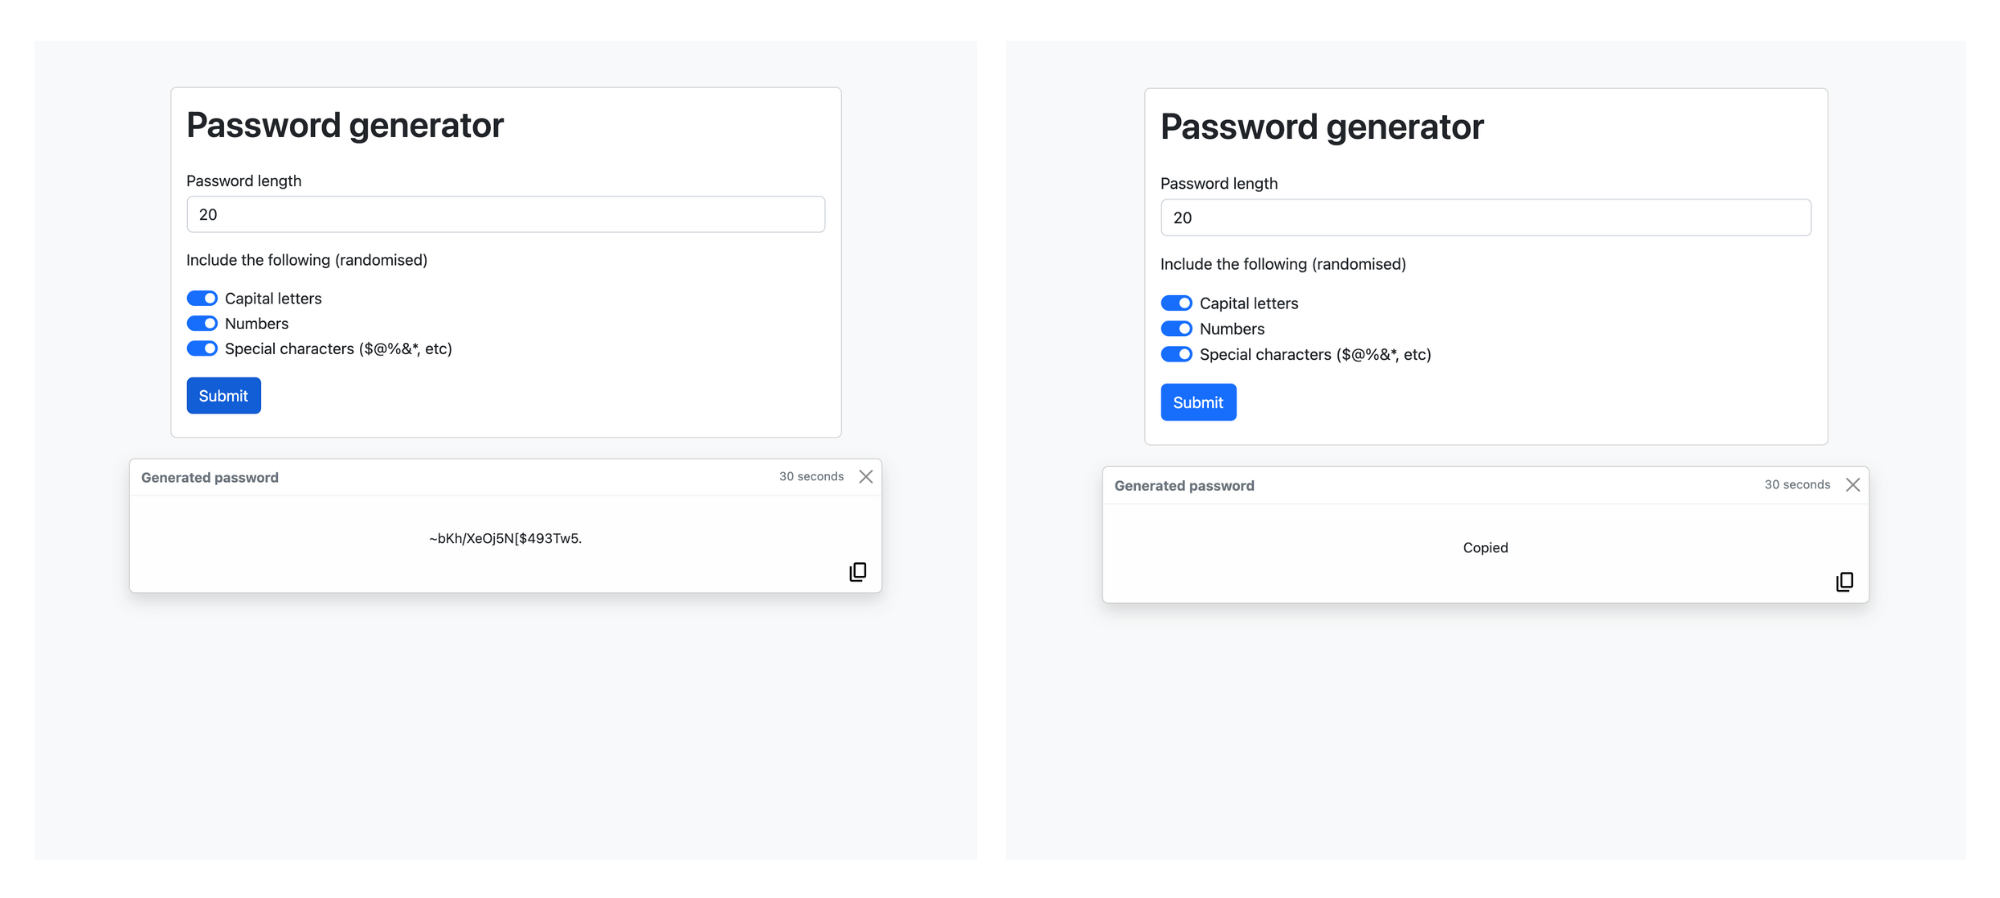
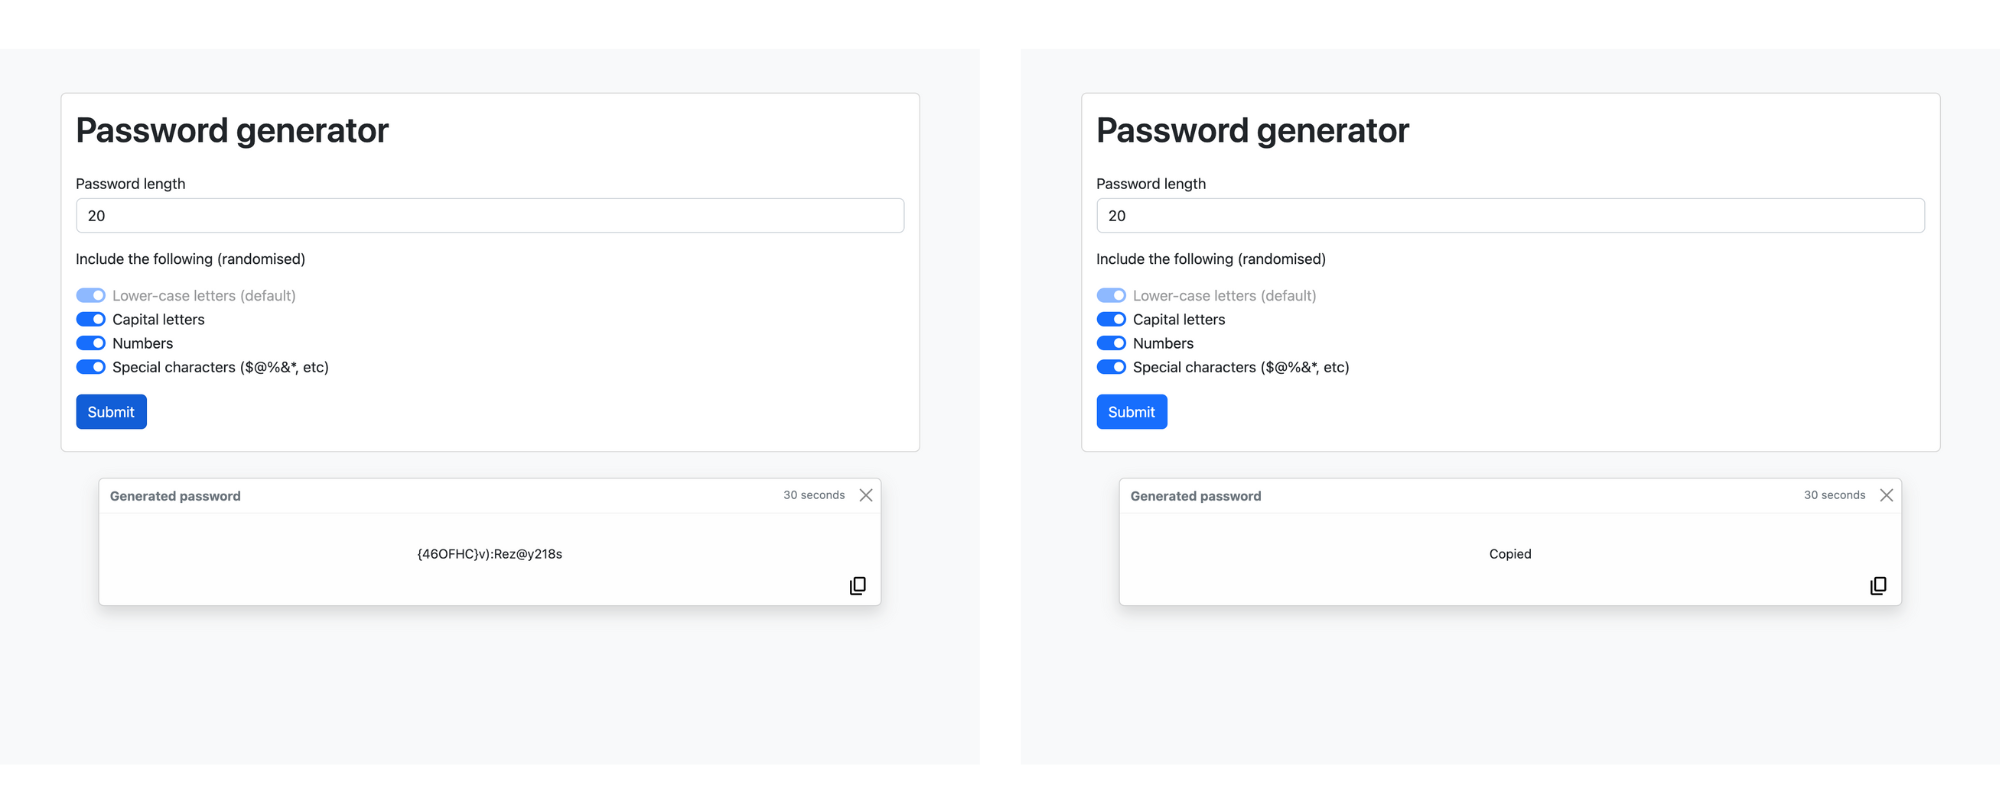
Readme file updated

diff --git a/README.md b/README.md
@@ -4,7 +4,7 @@ Last updated on: 17th Jan 2023. Last updated by: Shohidul Shah Hoque
 __________
 
 ## Description
-This application is deployed on the following link
+This application is deployed on the following link:
 - https://shah-hoque.github.io/password-generator/
 
 This application creates a password based on the following user input options:
@@ -12,6 +12,7 @@ This application creates a password based on the following user input options:
 - The option to include capital letters
 - The option to include numbers
 - The option to include special characters
+- Lower-case letters are included by default
 
 The benefits of this application:
 - Users can create complicated passwords at ease with the desired length and character types
@@ -35,7 +36,7 @@ Required inputs from the user:
 
 How to take the generated password:
 - The user can either manually highlight and copy the result 
-- The user can click on the icon on the bottom right that will automatically copy the result to their clipboard
+- The user can click on the icon on the bottom right corner that will automatically copy the result to their clipboard
 
 ## Application deployed
 
